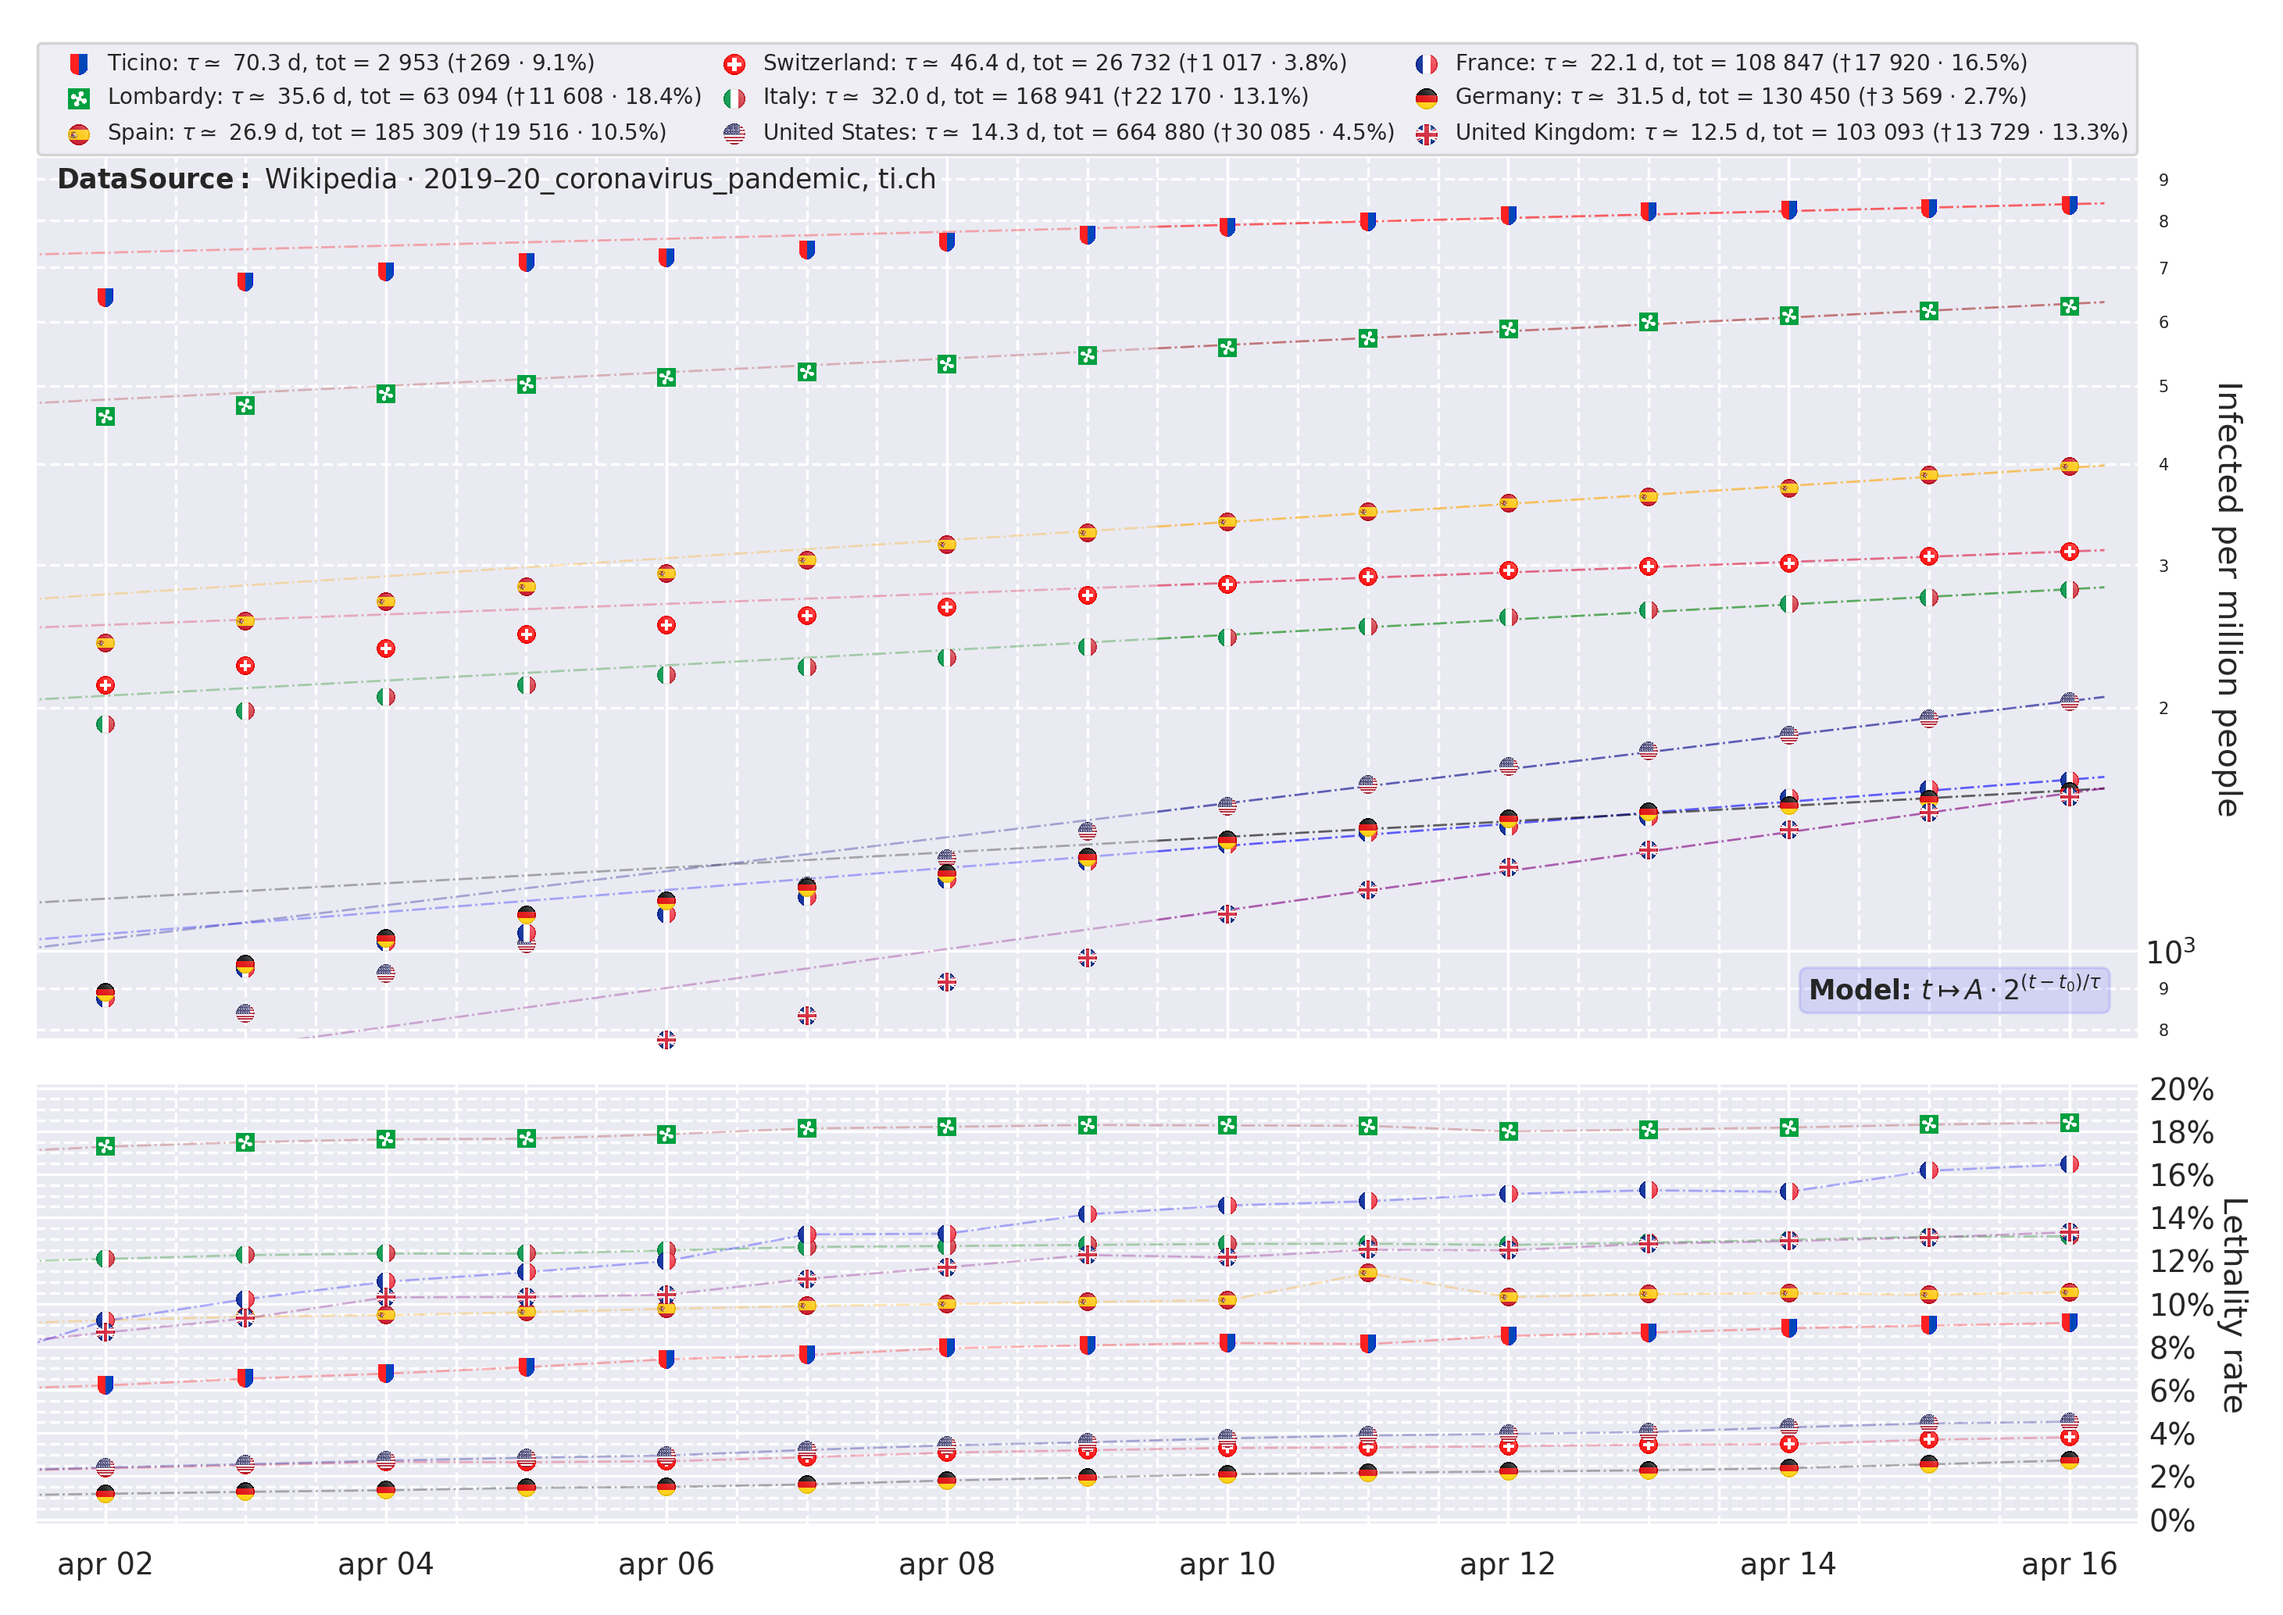
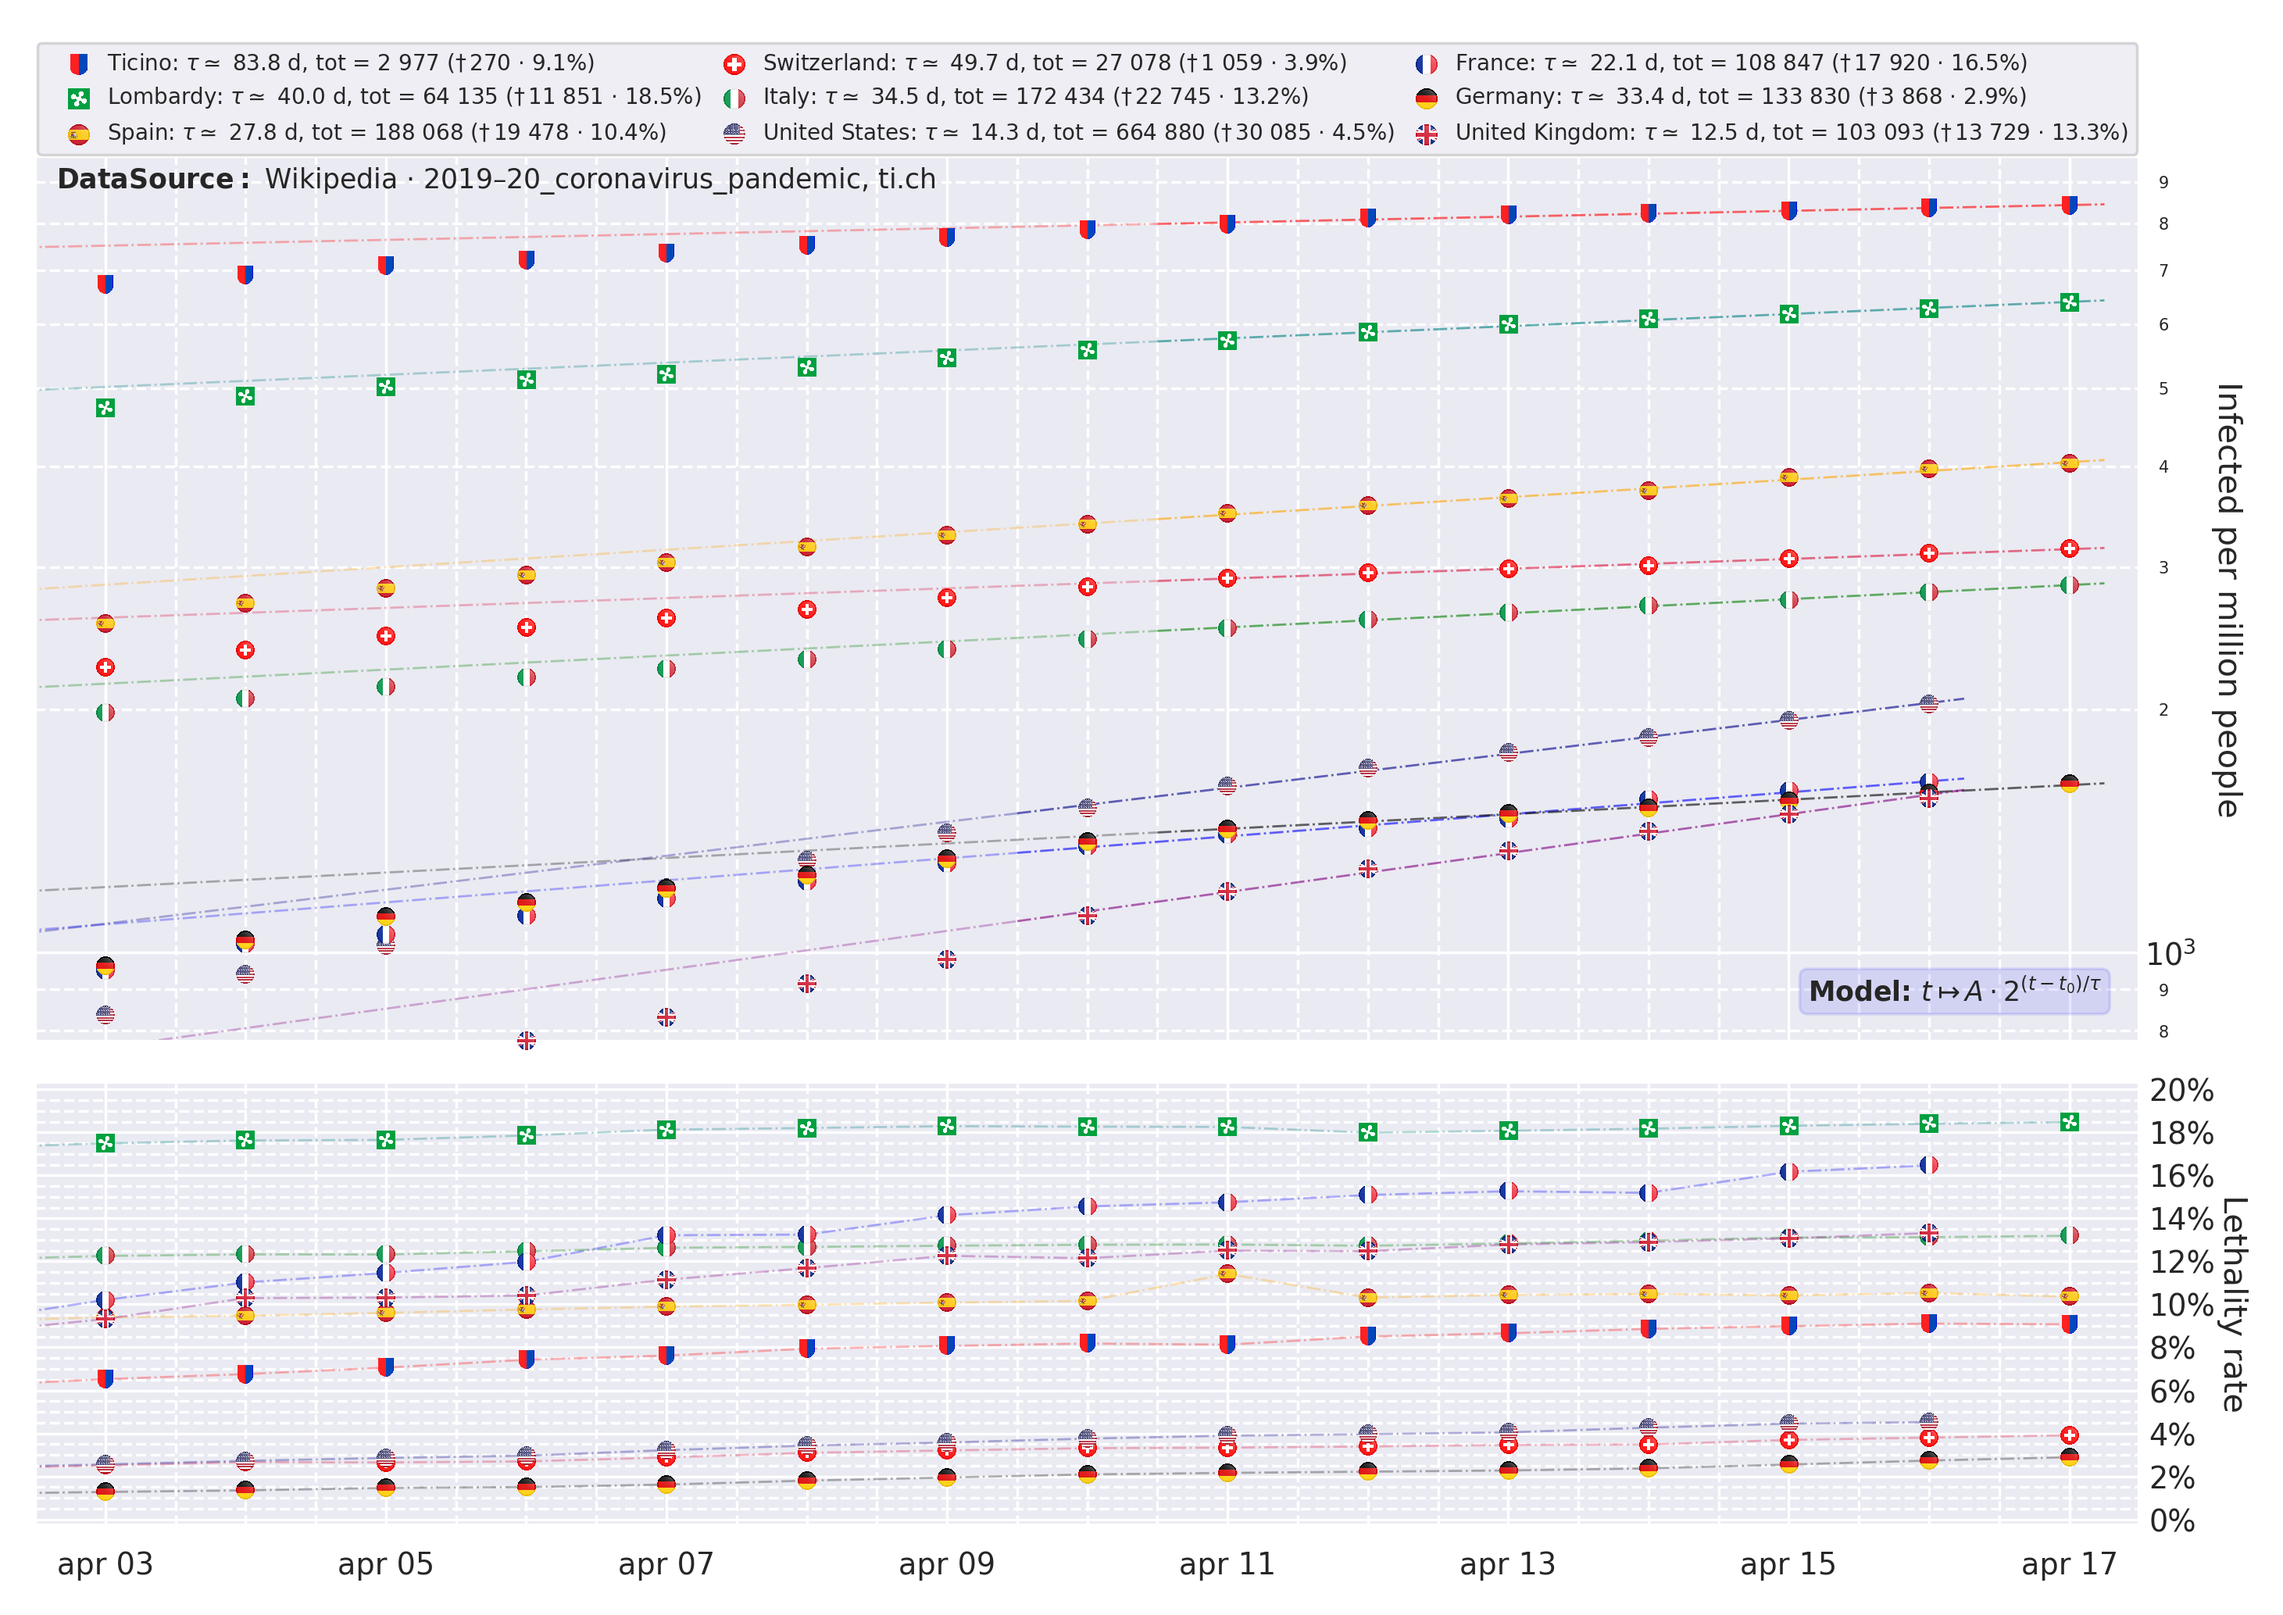
minor commit

diff --git a/Coronavirus/coronavirus.py b/Coronavirus/coronavirus.py
@@ -40,7 +40,7 @@ country_ds["date_format"] = [
     "%Y-%m-%d", "%Y-%m-%d", "%b %d %Y"
 ]
 country_ds["color"] = [
-    "purple", "brown", "green", "black", "blue", "red", "orange", "crimson",
+    "purple", "teal", "green", "black", "blue", "red", "orange", "crimson",
     "darkblue"
 ]
 country_ds.set_index("name", inplace=True)
